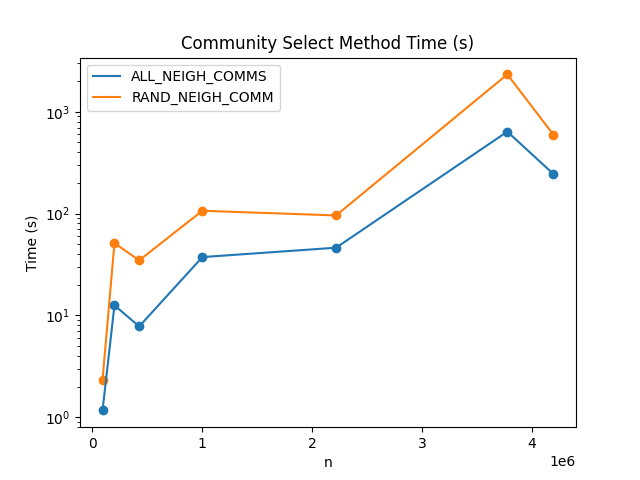
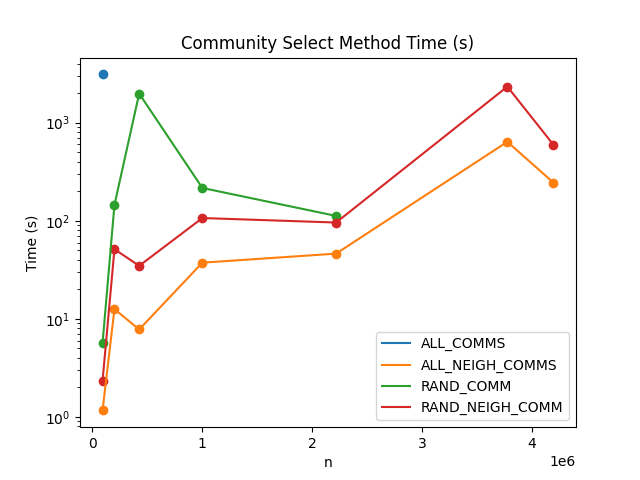
other methods last 2

diff --git a/plottingMethod.py b/plottingMethod.py
@@ -1,8 +1,12 @@
 import matplotlib.pyplot as plt
 #Method Comparison
 
-q_dict = {(0.0, 2, False): [0.9898551500822698, 0.6589962686147389, 0.6094325995349, 0.9628487792392265, 0.9957565875742763, 0.8116072185134056, 0.9901550459406823], (0.0, 4, False): [0.9898068621848108, 0.6616985791624438, 0.6041595429602374, 0.962293321388465, 0.9956181493590542, 0.8104383330041143, 0.9895666331168518]}#setting: [q, q, ...]
-t_dict = {(0.0, 2, False): [(1.1672277450561523, 0.0), (12.580533742904663, 0.0), (7.795973539352417, 0.0), (37.41572904586792, 0.0), (46.25916409492493, 0.0), (638.571994304657, 0.0), (244.62014198303223, 0.0)], (0.0, 4, False): [(2.3319756984710693, 0.0), (51.354244232177734, 0.0), (34.72269630432129, 0.0), (106.65697836875916, 0.0), (95.96523880958557, 0.0), (2330.1780834198, 0.0), (595.1327300071716, 0.0)]}#setting: [(t, leafTime), (t, leafTime), ...]
+#{}
+#{ ]}
+
+
+q_dict = {(0.0, 1, False): [0.9898551500822698], (0.0, 2, False): [0.9898551500822698, 0.6589962686147389, 0.6094325995349, 0.9628487792392265, 0.9957565875742763, 0.8116072185134056, 0.9901550459406823], (0.0, 3, False): [0.0019196848347242186, 0.44237461362125713, 0.54857506533527, 0.32224852576364815, 0.00003638392744414683], (0.0, 4, False): [0.9898068621848108, 0.6616985791624438, 0.6041595429602374, 0.962293321388465, 0.9956181493590542, 0.8104383330041143, 0.9895666331168518]}#setting: [q, q, ...]
+t_dict = {(0.0, 1, False): [(3105.071007013321, 0.0)], (0.0, 2, False): [(1.1672277450561523, 0.0), (12.580533742904663, 0.0), (7.795973539352417, 0.0), (37.41572904586792, 0.0), (46.25916409492493, 0.0), (638.571994304657, 0.0), (244.62014198303223, 0.0)], (0.0, 3, False): [(5.644949197769165, 0.0), (144.95438432693481, 0.0), (1977.6422681808472, 0.0), (216.0446949005127, 0.0), (112.0576446056366, 0.0)], (0.0, 4, False): [(2.3319756984710693, 0.0), (51.354244232177734, 0.0), (34.72269630432129, 0.0), (106.65697836875916, 0.0), (95.96523880958557, 0.0), (2330.1780834198, 0.0), (595.1327300071716, 0.0)]}#setting: [(t, leafTime), (t, leafTime), ...]
 network_sizes = [91813, 200169, 425008, 1000005, 2216688, 3774768, 4194301]
 nLeaves = [19580, 18113, 282735, 0, 129231, 667336, 54]
 method_dict = {1: "ALL_COMMS", 2: "ALL_NEIGH_COMMS", 3: "RAND_COMM", 4:"RAND_NEIGH_COMM"}
@@ -13,8 +17,8 @@ ax1.set_xlabel('n')
 ax1.set_ylabel('Q')
 ax1.set_yscale("log")
 for _, val in q_dict.items():
-	ax1.plot(network_sizes, val)
-	ax1.scatter(network_sizes, val)
+	ax1.plot(network_sizes[:len(val)], val)
+	ax1.scatter(network_sizes[:len(val)], val)
 ax1.legend([method_dict[setting[1]] for setting in q_dict.keys()])#
 
 plt.title("Community Select Method Q")
@@ -27,8 +31,8 @@ ax1.set_xlabel('n')
 ax1.set_ylabel('Time (s)')
 ax1.set_yscale("log")
 for _, val in t_dict.items():
-	ax1.plot(network_sizes, [tup[0] for tup in val])
-	ax1.scatter(network_sizes, [tup[0] for tup in val])
+	ax1.plot(network_sizes[:len(val)], [tup[0] for tup in val])
+	ax1.scatter(network_sizes[:len(val)], [tup[0] for tup in val])
 ax1.legend([method_dict[setting[1]] for setting in q_dict.keys()])#
 
 plt.title("Community Select Method Time (s)")

diff --git a/SNACSproject.py b/SNACSproject.py
@@ -66,8 +66,8 @@ if __name__ == "__main__":
 	# 3 = RAND_COMM
 	# 4 = RAND_NEIGH_COMM (Traag's Improved Method)
 	method_dict = {1: "ALL_COMMS", 2: "ALL_NEIGH_COMMS", 3: "RAND_COMM", 4:"RAND_NEIGH_COMM"}
-	settings_list = [(0.0, 1, False), (0.0, 3, False)]
-	networks = [readNetwork("rec-amazon.tsv", False)]#, readNetwork("soc-academia.tsv"), readNetwork("rt-higgs.tsv"), readNetwork("webbase-1M.tsv"), readNetwork("inf-netherlands_osm.tsv", False), readNetwork("cit-patent.tsv"), readNetwork("DIMACS10.tsv", directed=False)]
+	settings_list = [(0.0, 3, False)]
+	networks = [readNetwork("cit-patent.tsv"), readNetwork("DIMACS10.tsv", directed=False)]#[readNetwork("rec-amazon.tsv", False)]#, readNetwork("soc-academia.tsv"), readNetwork("rt-higgs.tsv"), readNetwork("webbase-1M.tsv"), readNetwork("inf-netherlands_osm.tsv", False), readNetwork("cit-patent.tsv"), readNetwork("DIMACS10.tsv", directed=False)]
 	n_settings = len(settings_list)
 	ind = np.arange(len(networks))
 	q_dict = {}
